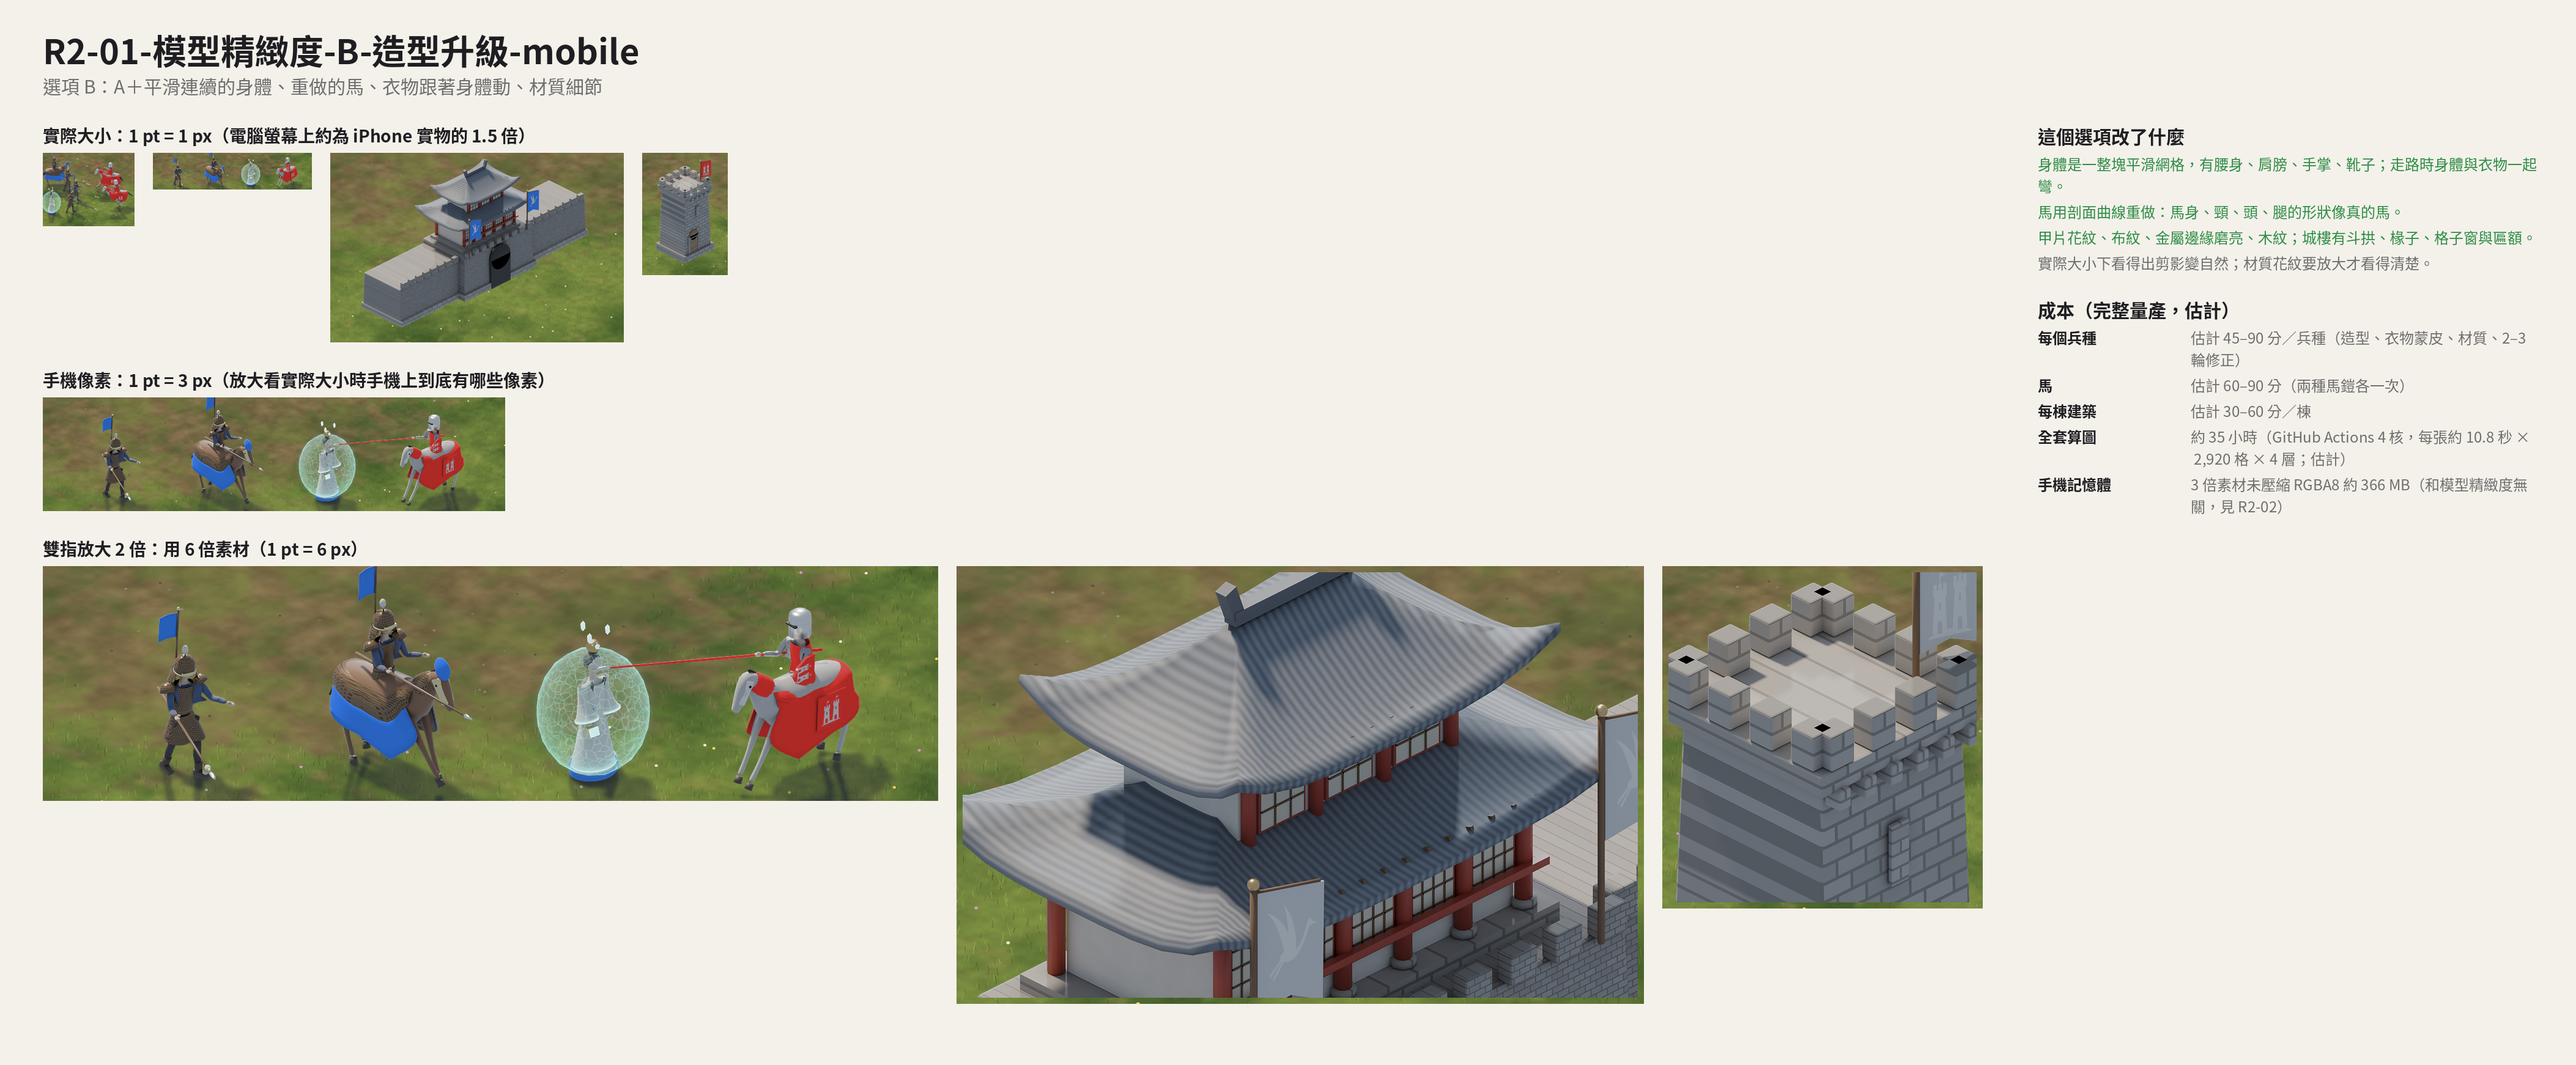
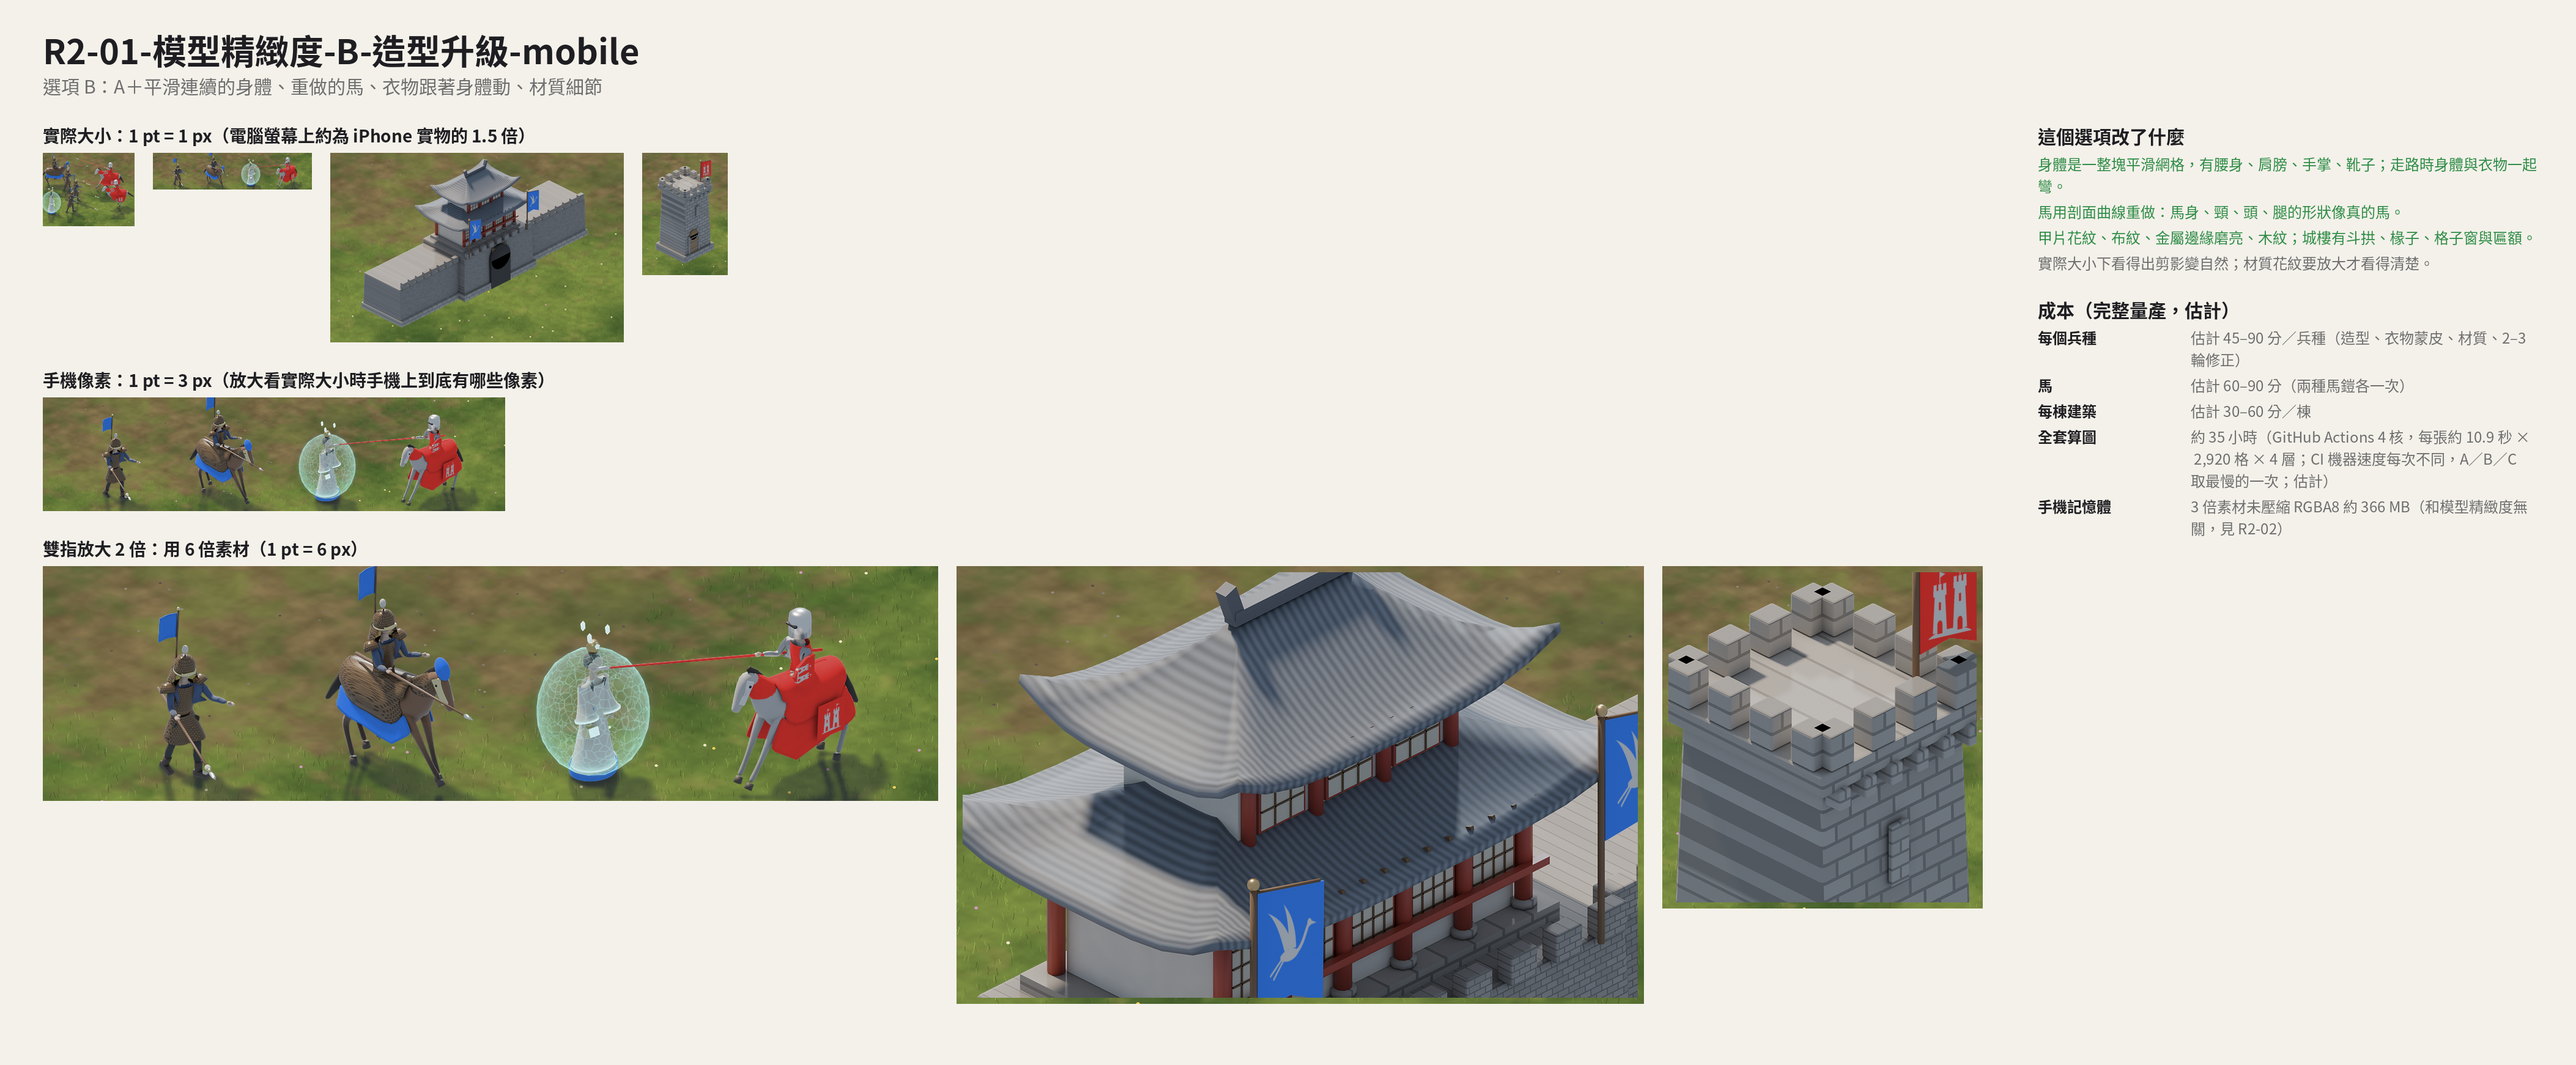
R2 模型精緻化：設計稿、動作對照、放大清晰度、總覽（CI run 36663217672 的成品）

diff --git a/design/round2/common/r2data.py b/design/round2/common/r2data.py
@@ -63,8 +63,8 @@ def costs(level):
     if per:
         # CI renders at 2x ss for A/B/C; per-image seconds already include that
         hours = frames * passes * per / 3600
-        render = (f"約 {hours:.0f} 小時（GitHub Actions 4 核，每張約 {per:.1f} 秒 × {frames:,} 格 × {passes} 層；"
-                  f"CI 機器速度每次不同，A／B／C 取最慢的一次；估計）")
+        note = "CI 機器速度每次不同，A／B／C 取最慢的一次；" if level != "0" else ""
+        render = f"約 {hours:.0f} 小時（GitHub Actions 4 核，每張約 {per:.1f} 秒 × {frames:,} 格 × {passes} 層；{note}估計）"
     else:
         render = "待 CI 實測"
     mem = prodnotes.memory_table(20384, 240000)[0]

diff --git a/design/round2/common/r2art.py b/design/round2/common/r2art.py
@@ -228,7 +228,7 @@ def artboard_02(opt, level="C"):
     for k, v in (("兵種", u), ("玩家色遮罩", m), ("建築與城鎮", b)):
         d.text((x0, yy), f"{k}：約 {v:.0f} MB", font=artboard.font(26, weight="regular"), fill=GREY)
         yy += 44
-    col = GREEN if tot < 400 else RED
+    col = GREY if tot < 400 else RED        # uncompressed totals are notes, not a pass
     d.text((x0, yy + 10), f"合計：約 {tot:.0f} MB", font=artboard.font(32), fill=col)
     d.text((x0, yy + 70), "壓縮貼圖能省多少，第二階段由 core 實測。", font=artboard.font(24, weight="regular"),
            fill=GREY)

diff --git a/design/round2/worklog.md b/design/round2/worklog.md
@@ -12,7 +12,21 @@
 | 10:22–10:32 | 本機記憶體低於 2 GB，暫停 Blender 並回報 ceo；同時寫高品質算圖設定、材質（甲片、布紋、金屬磨邊）、B／C 兵種 `units2.py`、建築 `buildings2.py`、算圖清單 `render_r2.py`、CI `design-render.yml` | 10 |
 | 10:32–10:38 | 本機預覽 B、C：修槍頭方向、騎士與馬的座標對齊（網格在原點設計、綁定時移到骨架根部）| 6 |
 | 10:38–10:39 | 推上 GitHub，CI 開始算 0／A／B／C | 1 |
-| 10:39– | 寫設計稿合成 `r2art.py`、成本 `r2data.py`（CI 在背景算）| — |
+| 10:39–10:50 | 寫設計稿合成 `r2art.py`、成本 `r2data.py`（CI 第一次在背景算，四個等級 8–24 分）| 11 |
+| 11:05–11:15 | 抓回 CI 成品、合成全部設計稿；自評 B 不夠明顯（馬鎧像一塊沙發、材質偏塑膠、建築放大圖漏遮罩），送 ceo 檢查點 | 10 |
+| 11:15–11:22 | 馬鎧與馬衣改成貼身、布料／皮革／馬毛加深淺變化、鬃毛加厚、建築放大圖補遮罩；推上 CI 第二次算圖 | 7 |
+| 11:45–11:55 | 抓回第二次成品、重新合成、無損壓縮（14.2 MB）、開 PR | 10 |
+
+## CI 算圖實測（GitHub Actions ubuntu-24.04，4 核）
+
+| 等級 | 第一次 | 第二次 |
+|---|---|---|
+| 0 | 8 分 | 8 分 |
+| A | 19 分 | 13 分 |
+| B | 24 分 | 23 分 |
+| C | 12 分 | 24 分 |
+
+- 同樣的工作量，各台 runner 速度差到兩倍，所以量產說明的算圖時數，A／B／C 一律取最慢的一次估計。
 
 ## 推算用
 
